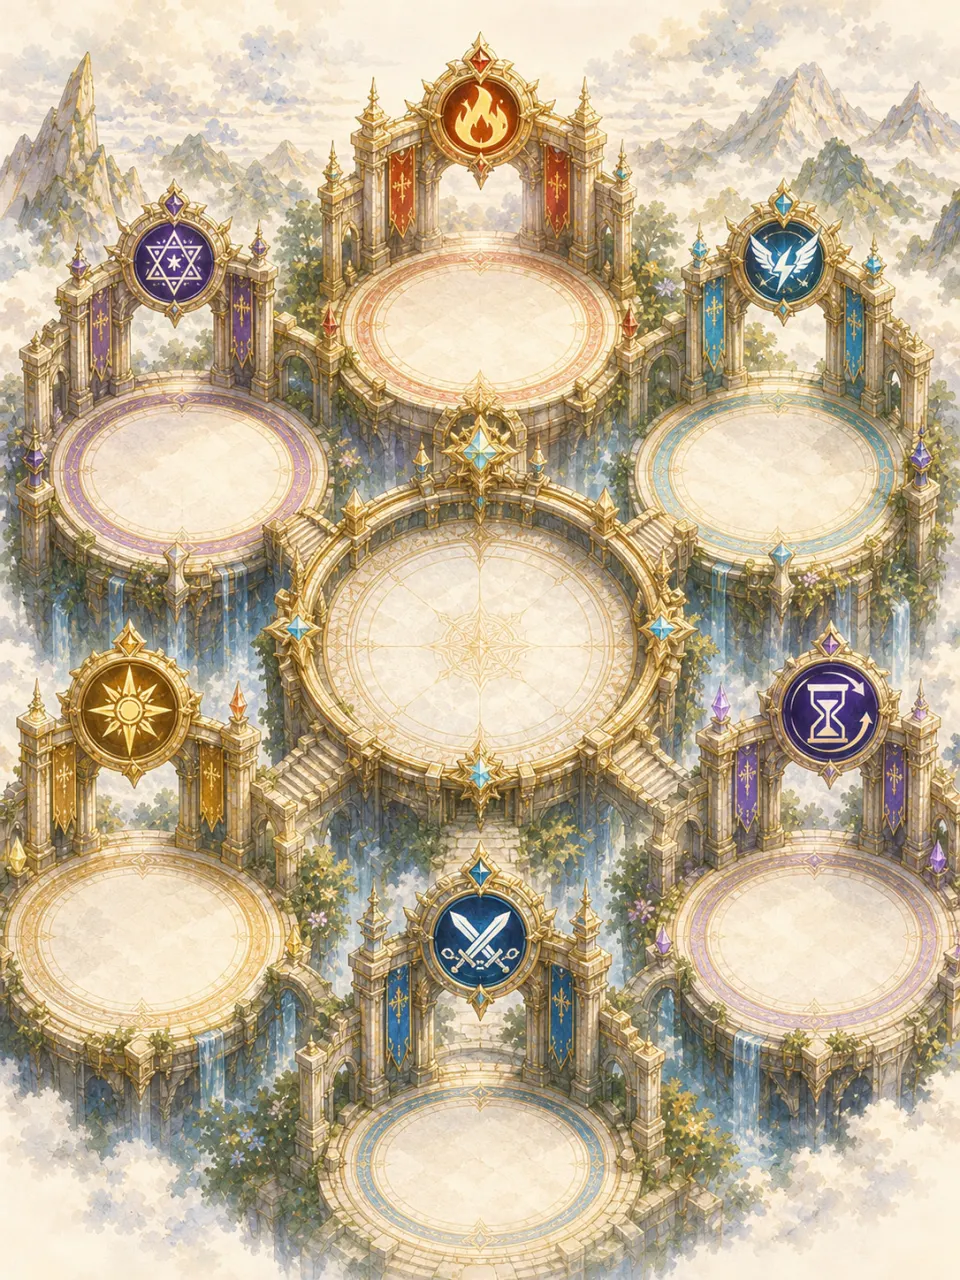
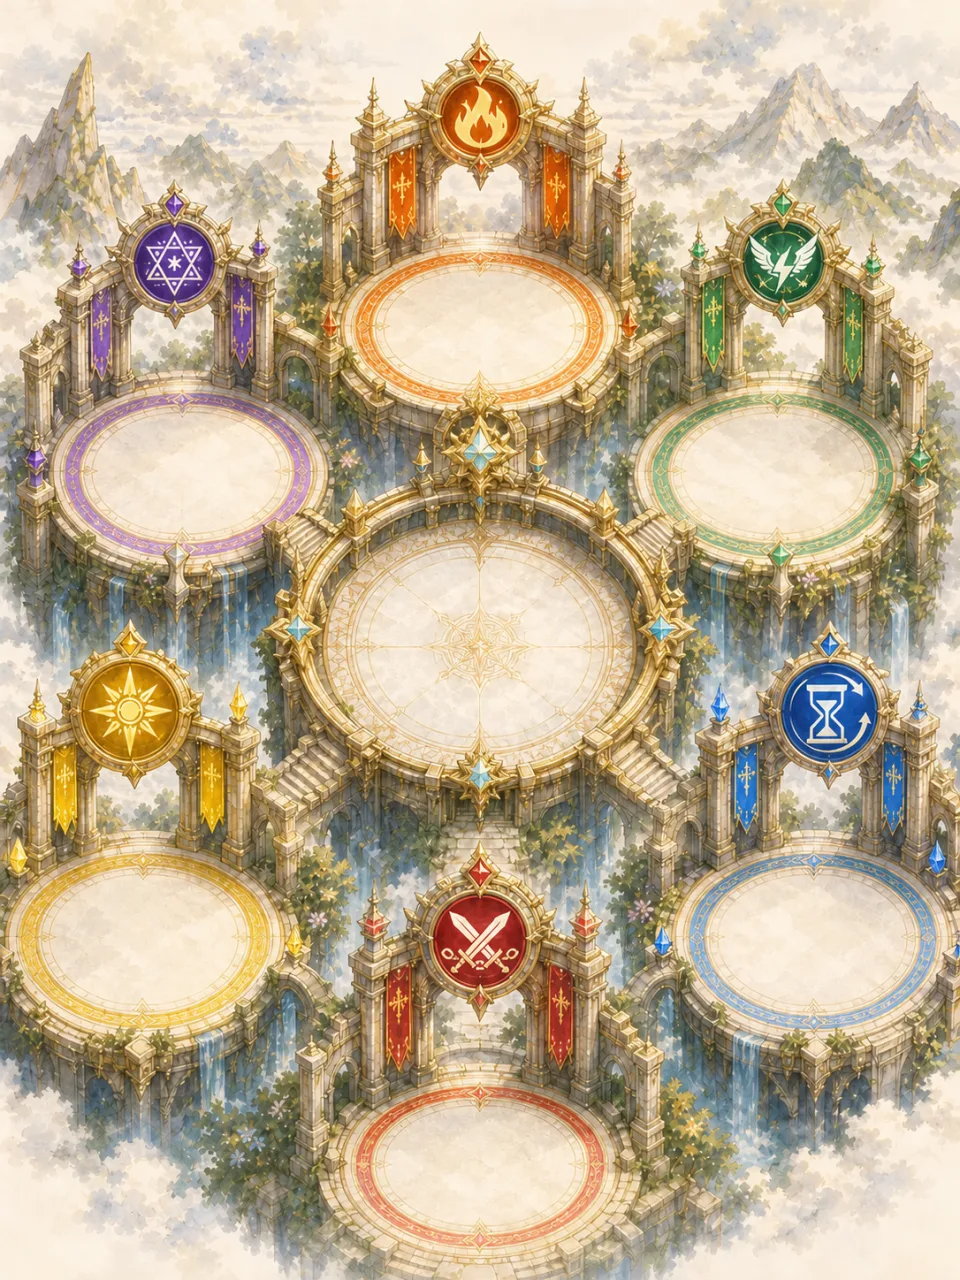
feat: add Six Heroes room crowns

diff --git a/app/Livewire/CityHeader.php b/app/Livewire/CityHeader.php
@@ -29,7 +29,9 @@ use App\Services\WeeklyWinRankingService;
 use App\Support\CharacterIconCatalog;
 use App\Support\CityVisualCatalog;
 use App\Support\JobRankCatalog;
+use App\Support\SixHeroRoomUiCatalog;
 use Carbon\CarbonImmutable;
+use Illuminate\Support\Collection;
 use Illuminate\Support\Facades\Cache;
 use Illuminate\Support\Facades\Schema;
 use Livewire\Component;
@@ -310,10 +312,10 @@ class CityHeader extends Component
     private function onlinePlayers(): array
     {
         $sixHeroUiEnabled = (bool) config('features.six_hero_ui_enabled', false);
-        $cacheKey = 'city_header_online_players_v5_'.($sixHeroUiEnabled ? 'enabled' : 'disabled');
+        $cacheKey = 'city_header_online_players_v6_'.($sixHeroUiEnabled ? 'enabled' : 'disabled');
 
         return Cache::remember($cacheKey, now()->addSeconds(20), function (): array {
-            $sixHeroTopRankerIds = $this->currentSixHeroTopRankerIds();
+            $sixHeroCrownsByCharacter = $this->currentSixHeroCrownsByCharacter();
 
             return Character::visibleToPublic()
                 // visibleToPublic() の全公開面除外とは分け、現在の冒険者だけから運営テスト用を隠す。
@@ -325,17 +327,24 @@ class CityHeader extends Component
                 ->orderBy('last_seen_at', 'desc')
                 ->take(20)
                 ->get(['id', 'name'])
-                ->map(fn (Character $char): array => [
-                    'id' => (int) $char->id,
-                    'name' => $char->name,
-                    'is_six_hero_top_ranker' => isset($sixHeroTopRankerIds[(int) $char->id]),
-                ])
+                ->map(function (Character $char) use ($sixHeroCrownsByCharacter): array {
+                    $crowns = $sixHeroCrownsByCharacter[(int) $char->id] ?? [];
+
+                    return [
+                        'id' => (int) $char->id,
+                        'name' => $char->name,
+                        'is_six_hero_top_ranker' => $crowns !== [],
+                        'six_hero_crowns' => $crowns,
+                    ];
+                })
                 ->toArray();
         });
     }
 
-    /** @return array<int, true> */
-    private function currentSixHeroTopRankerIds(): array
+    /**
+     * @return array<int, list<array{room_key: string, room_label: string, asset_url: string}>>
+     */
+    private function currentSixHeroCrownsByCharacter(): array
     {
         if (
             ! (bool) config('features.six_hero_ui_enabled', false)
@@ -353,12 +362,31 @@ class CityHeader extends Component
             return [];
         }
 
+        $roomOrder = collect(SixHeroRoomKey::cases())
+            ->mapWithKeys(fn (SixHeroRoomKey $room, int $index): array => [$room->value => $index]);
+
         return SixHeroRanking::query()
             ->where('season_id', $seasonId)
             ->where('rank', 1)
-            ->distinct()
-            ->pluck('character_id')
-            ->mapWithKeys(fn (int $characterId): array => [$characterId => true])
+            ->get(['character_id', 'room_key'])
+            ->groupBy(fn (SixHeroRanking $ranking): int => (int) $ranking->character_id)
+            ->mapWithKeys(function (Collection $rankings, int $characterId) use ($roomOrder): array {
+                $crowns = $rankings
+                    ->sortBy(fn (SixHeroRanking $ranking): int => (int) $roomOrder->get($ranking->room_key->value, 999))
+                    ->map(function (SixHeroRanking $ranking): array {
+                        $room = $ranking->room_key;
+
+                        return [
+                            'room_key' => $room->value,
+                            'room_label' => $room->label(),
+                            'asset_url' => SixHeroRoomUiCatalog::crownImageUrl($room),
+                        ];
+                    })
+                    ->values()
+                    ->all();
+
+                return [$characterId => $crowns];
+            })
             ->all();
     }
 

diff --git a/resources/views/livewire/city-header.blade.php b/resources/views/livewire/city-header.blade.php
@@ -1605,15 +1605,31 @@
                     <div class="flex min-w-0 flex-1 flex-wrap items-center overflow-hidden text-[#1e40af] font-medium transition-all md:max-h-none md:overflow-visible"
                          :class="playersExpanded ? 'max-h-32 overflow-y-auto' : 'max-h-8'">
                         @forelse($onlinePlayers as $player)
+                            @php
+                                $sixHeroCrowns = $player['six_hero_crowns'] ?? [];
+                                $sixHeroCrownRooms = implode('・', array_column($sixHeroCrowns, 'room_label'));
+                            @endphp
                             <a href="#"
                                x-on:click.prevent="$dispatch('adventurer-card-loading'); Livewire.dispatch('open-adventurer-card', { characterId: {{ (int) $player['id'] }} })"
                                @if($player['is_six_hero_top_ranker'] ?? false)
                                    data-six-hero-top-ranker="{{ (int) $player['id'] }}"
-                                   aria-label="六極殿 現在首位 {{ $player['name'] }}"
-                                   title="六極殿の現在首位"
+                                   aria-label="六英雄戦 現在首位（{{ $sixHeroCrownRooms }}） {{ $player['name'] }}"
+                                   title="六英雄戦 現在首位：{{ $sixHeroCrownRooms }}"
                                @endif
-                               class="hover:underline hover:text-blue-800">
-                                @if($player['is_six_hero_top_ranker'] ?? false)<span aria-hidden="true">👑</span>@endif{{ $player['name'] }}
+                               class="inline-flex items-center hover:underline hover:text-blue-800">
+                                @if($player['is_six_hero_top_ranker'] ?? false)
+                                    <span aria-hidden="true" class="mr-0.5 inline-flex shrink-0 items-center gap-px">
+                                        @foreach($sixHeroCrowns as $crown)
+                                            <img
+                                                src="{{ $crown['asset_url'] }}"
+                                                alt=""
+                                                class="h-4 w-4 object-contain drop-shadow-[0_1px_1px_rgba(15,23,42,0.3)] sm:h-[18px] sm:w-[18px]"
+                                                data-six-hero-crown="{{ $crown['room_key'] }}"
+                                            >
+                                        @endforeach
+                                    </span>
+                                @endif
+                                <span>{{ $player['name'] }}</span>
                             </a>
                             @if(!$loop->last)
                                 <span class="text-gray-300 mx-1">|</span>

diff --git a/app/Support/SixHeroRoomUiCatalog.php b/app/Support/SixHeroRoomUiCatalog.php
@@ -80,12 +80,29 @@ final class SixHeroRoomUiCatalog
     {
         return match ($room) {
             SixHeroRoomKey::SEAL_MAGIC => 'border-violet-300 bg-violet-50',
-            SixHeroRoomKey::SEAL_BLADE => 'border-rose-300 bg-rose-50',
+            SixHeroRoomKey::SEAL_BLADE => 'border-red-300 bg-red-50',
             SixHeroRoomKey::BURNING_LIFE => 'border-orange-300 bg-orange-50',
-            SixHeroRoomKey::DIVINE_SPEED => 'border-cyan-300 bg-cyan-50',
-            SixHeroRoomKey::REVERSE_TIME => 'border-indigo-300 bg-indigo-50',
-            SixHeroRoomKey::MIRACLE => 'border-amber-300 bg-amber-50',
+            SixHeroRoomKey::DIVINE_SPEED => 'border-green-300 bg-green-50',
+            SixHeroRoomKey::REVERSE_TIME => 'border-blue-300 bg-blue-50',
+            SixHeroRoomKey::MIRACLE => 'border-yellow-300 bg-yellow-50',
         };
+    }
+
+    public static function crownImagePath(SixHeroRoomKey $room): string
+    {
+        return match ($room) {
+            SixHeroRoomKey::SEAL_MAGIC => '/images/six_heroes/crown_001.webp',
+            SixHeroRoomKey::SEAL_BLADE => '/images/six_heroes/crown_002.webp',
+            SixHeroRoomKey::BURNING_LIFE => '/images/six_heroes/crown_003.webp',
+            SixHeroRoomKey::DIVINE_SPEED => '/images/six_heroes/crown_004.webp',
+            SixHeroRoomKey::REVERSE_TIME => '/images/six_heroes/crown_005.webp',
+            SixHeroRoomKey::MIRACLE => '/images/six_heroes/crown_006.webp',
+        };
+    }
+
+    public static function crownImageUrl(SixHeroRoomKey $room): string
+    {
+        return self::versionedAssetUrl(self::crownImagePath($room));
     }
 
     /** @return array{x: int, y: int} */
@@ -103,9 +120,14 @@ final class SixHeroRoomUiCatalog
 
     public static function chambersImageUrl(): string
     {
-        $absolutePath = public_path(ltrim(self::CHAMBERS_IMAGE_PATH, '/'));
+        return self::versionedAssetUrl(self::CHAMBERS_IMAGE_PATH);
+    }
+
+    private static function versionedAssetUrl(string $path): string
+    {
+        $absolutePath = public_path(ltrim($path, '/'));
         $version = is_file($absolutePath) ? (string) filemtime($absolutePath) : '1';
 
-        return asset(self::CHAMBERS_IMAGE_PATH).'?v='.$version;
+        return asset($path).'?v='.$version;
     }
 }

diff --git a/tests/Unit/SixHeroRoomRegistryTest.php b/tests/Unit/SixHeroRoomRegistryTest.php
@@ -13,6 +13,7 @@ use App\Services\Battle\RoomRules\SealMagicPvPRoomRule;
 use App\Services\Battle\PvPBattleExecutionContext;
 use App\Services\Battle\SixHeroBattleContextFactory;
 use App\Services\Battle\SixHeroRoomRuleResolver;
+use App\Support\SixHeroRoomUiCatalog;
 use PHPUnit\Framework\TestCase;
 use ReflectionMethod;
 use ReflectionNamedType;
@@ -56,6 +57,25 @@ final class SixHeroRoomRegistryTest extends TestCase
         }
 
         $this->assertCount(count(SixHeroRoomKey::cases()), $expected);
+    }
+
+    public function test_room_visuals_use_the_assigned_crown_and_accent_colors(): void
+    {
+        $expected = [
+            SixHeroRoomKey::SEAL_MAGIC->value => ['crown_001.webp', 'border-violet-300 bg-violet-50'],
+            SixHeroRoomKey::SEAL_BLADE->value => ['crown_002.webp', 'border-red-300 bg-red-50'],
+            SixHeroRoomKey::BURNING_LIFE->value => ['crown_003.webp', 'border-orange-300 bg-orange-50'],
+            SixHeroRoomKey::DIVINE_SPEED->value => ['crown_004.webp', 'border-green-300 bg-green-50'],
+            SixHeroRoomKey::REVERSE_TIME->value => ['crown_005.webp', 'border-blue-300 bg-blue-50'],
+            SixHeroRoomKey::MIRACLE->value => ['crown_006.webp', 'border-yellow-300 bg-yellow-50'],
+        ];
+
+        foreach (SixHeroRoomKey::cases() as $room) {
+            [$crownFile, $accentClasses] = $expected[$room->value];
+
+            $this->assertStringEndsWith($crownFile, SixHeroRoomUiCatalog::crownImagePath($room));
+            $this->assertSame($accentClasses, SixHeroRoomUiCatalog::accentClasses($room));
+        }
     }
 
     public function test_resolver_returns_a_fresh_rule_instance_for_every_resolution(): void

diff --git a/tests/Feature/SixHeroProfileAchievementTest.php b/tests/Feature/SixHeroProfileAchievementTest.php
@@ -163,6 +163,16 @@ final class SixHeroProfileAchievementTest extends TestCase
         $this->ranking(
             $season,
             SixHeroRoomKey::MIRACLE,
+            $leader,
+            rank: 1,
+            challengeWins: 0,
+            challengeLosses: 0,
+            defenseWins: 0,
+            defenseLosses: 0,
+        );
+        $this->ranking(
+            $season,
+            SixHeroRoomKey::MIRACLE,
             $ordinary,
             rank: 2,
             challengeWins: 0,
@@ -175,16 +185,19 @@ final class SixHeroProfileAchievementTest extends TestCase
             ->withSession(['current_character_id' => $viewer->id]);
 
         Livewire::test(CityHeader::class)
-            ->assertSee('👑')
             ->assertSeeHtml('data-six-hero-top-ranker="'.$leader->id.'"')
-            ->assertSeeHtml('aria-label="六極殿 現在首位 '.$leader->name.'"')
+            ->assertSeeHtml('aria-label="六英雄戦 現在首位（神速の間・奇跡の間） '.$leader->name.'"')
+            ->assertSeeHtml('data-six-hero-crown="divine_speed"')
+            ->assertSeeHtml('crown_004.webp')
+            ->assertSeeHtml('data-six-hero-crown="miracle"')
+            ->assertSeeHtml('crown_006.webp')
             ->assertDontSeeHtml('data-six-hero-top-ranker="'.$ordinary->id.'"');
 
         config(['features.six_hero_ui_enabled' => false]);
 
         Livewire::test(CityHeader::class)
-            ->assertDontSee('👑')
-            ->assertDontSeeHtml('data-six-hero-top-ranker');
+            ->assertDontSeeHtml('data-six-hero-top-ranker')
+            ->assertDontSeeHtml('data-six-hero-crown');
     }
 
     private function ranking(

diff --git a/config/admin_update_summaries.php b/config/admin_update_summaries.php
@@ -2,6 +2,13 @@
 
 return [
     [
+        'id' => '2026-08-24-six-hero-room-crowns',
+        'date' => '2026-08-24',
+        'category' => 'changed',
+        'title' => '六英雄戦の首位表示をRoom色へ統一',
+        'detail' => '六つの間へ紫・赤・橙・緑・青・黄の専用色を割り当て、現在1位の冒険者には該当Room色の王冠を表示するようにしました。六部屋図とRoom選択の色も同じ対応へ統一しています。',
+    ],
+    [
         'id' => '2026-08-24-six-hero-rules-guide-modal',
         'date' => '2026-08-24',
         'category' => 'changed',

diff --git a/docs/CODEMAP.md b/docs/CODEMAP.md
@@ -6,7 +6,7 @@ Purpose: find relevant files quickly. Do not duplicate implementation details.
 
 - RoomRule/共通PvP: `app/Services/PvPBattleService.php`, `app/Services/Battle/PvPRoomRuleInterface.php`, `app/Services/Battle/NullPvPRoomRule.php`, `app/Services/Battle/RoomRules/`, `app/Services/Battle/SixHeroRoomRuleResolver.php`, `app/Services/Battle/SixHeroBattleContextFactory.php`
 - Season/Ranking/対戦: `app/Support/SixHeroCompetitionRules.php`, `config/six_heroes.php`, `app/Services/SixHeroSeasonService.php`, `app/Services/SixHeroRankingService.php`, `app/Services/SixHeroDailyUsageService.php`, `app/Services/SixHeroOfficialBattleService.php`, `app/Services/SixHeroPracticeBattleService.php`, `app/Services/SixHeroSeasonFinalizationService.php`, `app/Services/SixHeroRankingInitializationService.php`
-- UI/結果/履歴: `app/Livewire/SixHeroHallScreen.php`, `app/Livewire/SixHeroRoomRanking.php`, `resources/views/livewire/six-hero-hall-screen.blade.php`, `resources/views/six-heroes/battle-result.blade.php`, `app/Services/SixHeroHallOfFameService.php`, `app/Services/SixHeroHallPresenter.php`, `app/Livewire/CityHeader.php`
+- UI/結果/履歴: `app/Livewire/SixHeroHallScreen.php`, `app/Livewire/SixHeroRoomRanking.php`, `resources/views/livewire/six-hero-hall-screen.blade.php`, `resources/views/six-heroes/battle-result.blade.php`, `app/Services/SixHeroHallOfFameService.php`, `app/Services/SixHeroHallPresenter.php`, `app/Livewire/CityHeader.php`, `resources/views/livewire/city-header.blade.php`, `app/Support/SixHeroRoomUiCatalog.php`, `public/images/six_heroes/six_hero_chambers.webp`, `public/images/six_heroes/crown_001.webp`〜`crown_006.webp`
 - 運用: `app/Services/SixHeroOperationsService.php`, `app/Livewire/Admin/SixHeroOperationsManager.php`, `app/Console/Commands/CheckSixHeroHealth.php`, `app/Console/Commands/CheckSixHeroRelease.php`, `docs/SIX_HERO_RELEASE_RUNBOOK.md`, `scripts/verify/six-hero-mysql-release.php`
 - 公開境界: `config/features.php`, `routes/web.php`, `routes/console.php`, `app/Livewire/MainScreen.php`, `app/Livewire/ArenaHub.php`, `resources/views/livewire/main-screen.blade.php`, `resources/views/livewire/arena-hub.blade.php`。flag OFFは従来闘技場、ONは8月中だけ両競技を切替表示し、9月から六英雄戦のみ
 

diff --git a/docs/AI_CONTEXT.md b/docs/AI_CONTEXT.md
@@ -19,6 +19,7 @@ Branch: main
 - 永続化は`SixHeroSeason`、Room別`SixHeroRanking`、Room別日次使用回数、公式BattleLog、確定済み`SixHeroChampion` snapshot。管理画面とCLIは同じ`SixHeroOperationsService`を読み取り正本とし、安全な既存処理の再試行だけを許可する
 - 冒険者カードでは装飾付きカード本体をコメント欄で閉じ、その下・お気に入り武器の直前に独立した「六英雄戦績」枠を置く。現在月のRoom別順位・挑戦勝敗・防衛勝敗と、確定済みの英雄回数・制覇Room・冠・連覇を同じ枠で確認できる
 - 六極殿の「現在の六英雄」見出し右側に「遊び方」を置き、独立modalで競技の共通ルールと6Roomそれぞれの特殊な戦闘計算を表示する
+- Room色は封魔=紫・封刃=赤・灼命=橙・神速=緑・逆刻=青・奇跡=黄。六部屋図・Room選択・現在首位王冠で共通利用し、街ヘッダの「現在の冒険者」では各Roomのrank 1へ対応色王冠を表示する。複数Room首位は王冠をenum定義順に並べる
 
 ## Job-art / exploration live metrics
 

diff --git a/docs/UPDATE_LOG.md b/docs/UPDATE_LOG.md
@@ -28,6 +28,7 @@ Do not record tiny refactors, formatting-only changes, or AI docs-only edits.
 
 ### Changed
 
+- 六つの間へ、封魔=紫・封刃=赤・灼命=橙・神速=緑・逆刻=青・奇跡=黄の専用色を割り当てました。「現在の冒険者」では各Roomの現在1位に対応色の王冠を表示し、六部屋図とRoom選択の色も同じ対応へ統一しています。
 - 「現在の六英雄」見出しの「遊び方」から、共通の競技ルールと6つの間それぞれの特殊な戦闘計算を確認できるようにしました。
 - 冒険者カードのキャラクターアイコンを、六英雄戦での見え方に近づけてひと回り大きく表示するようにしました。
 
